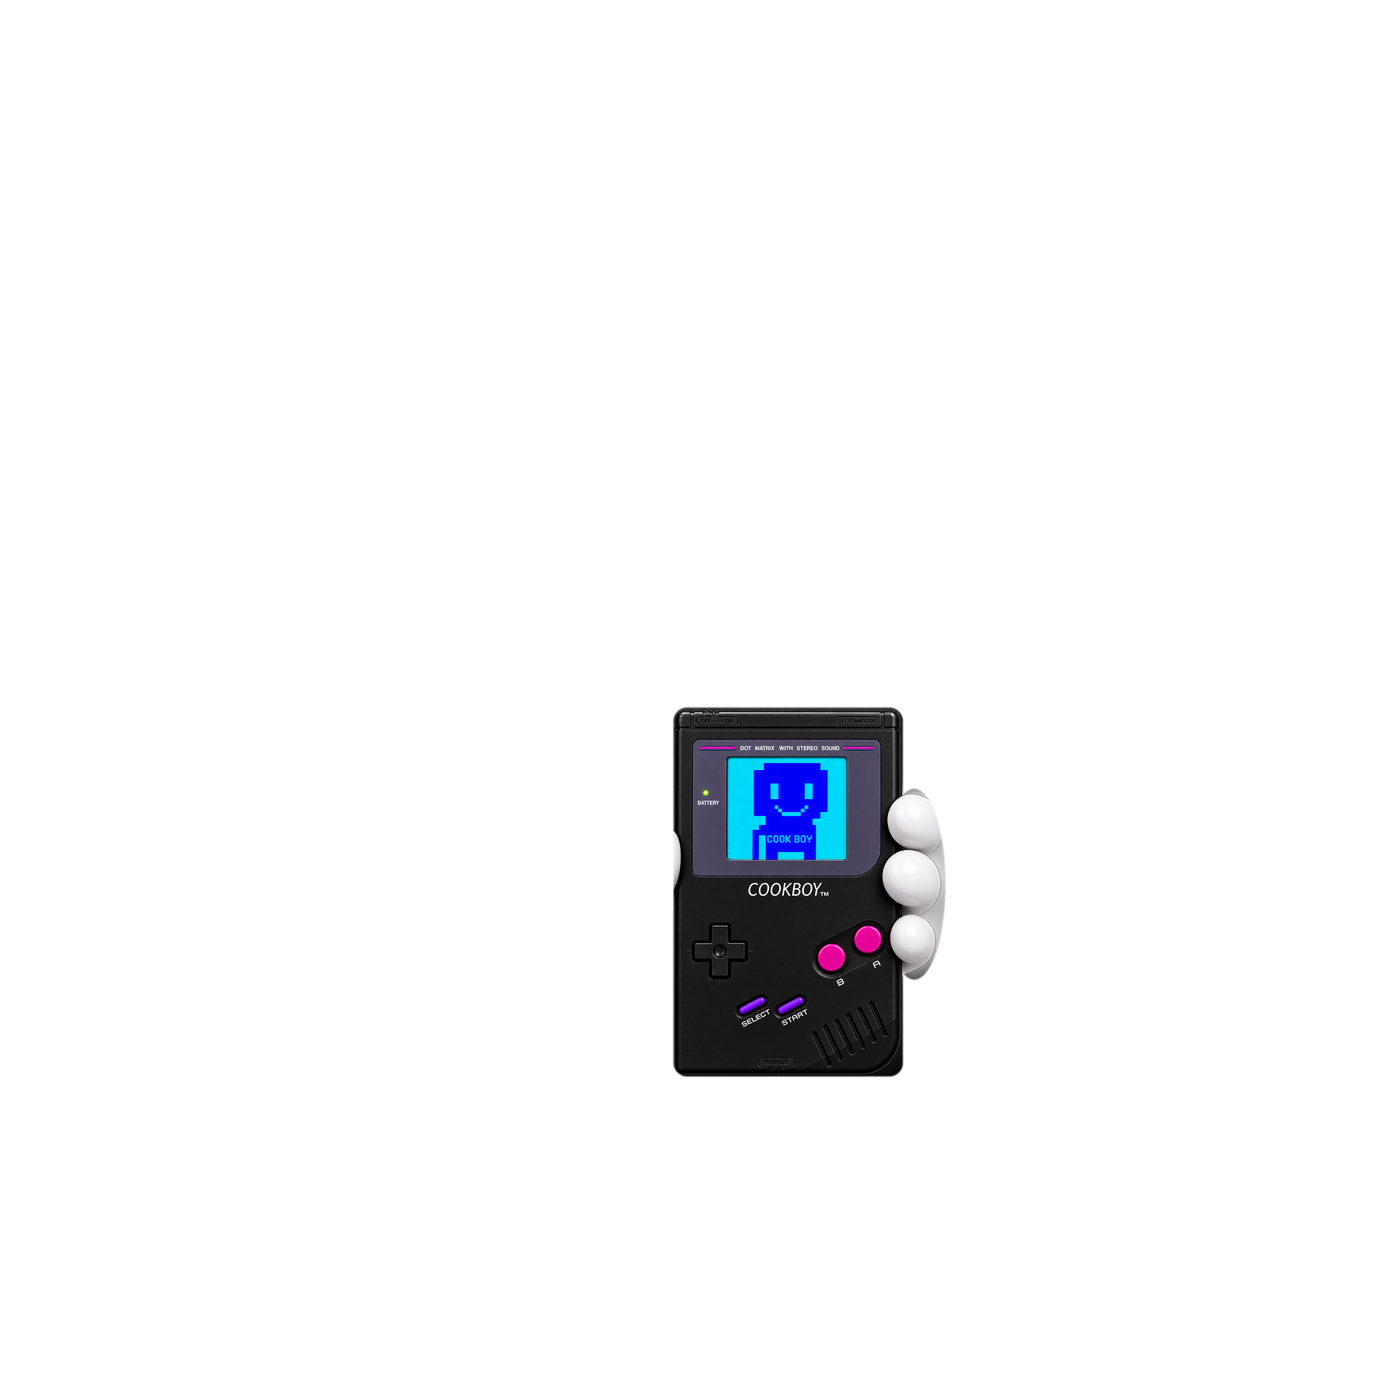
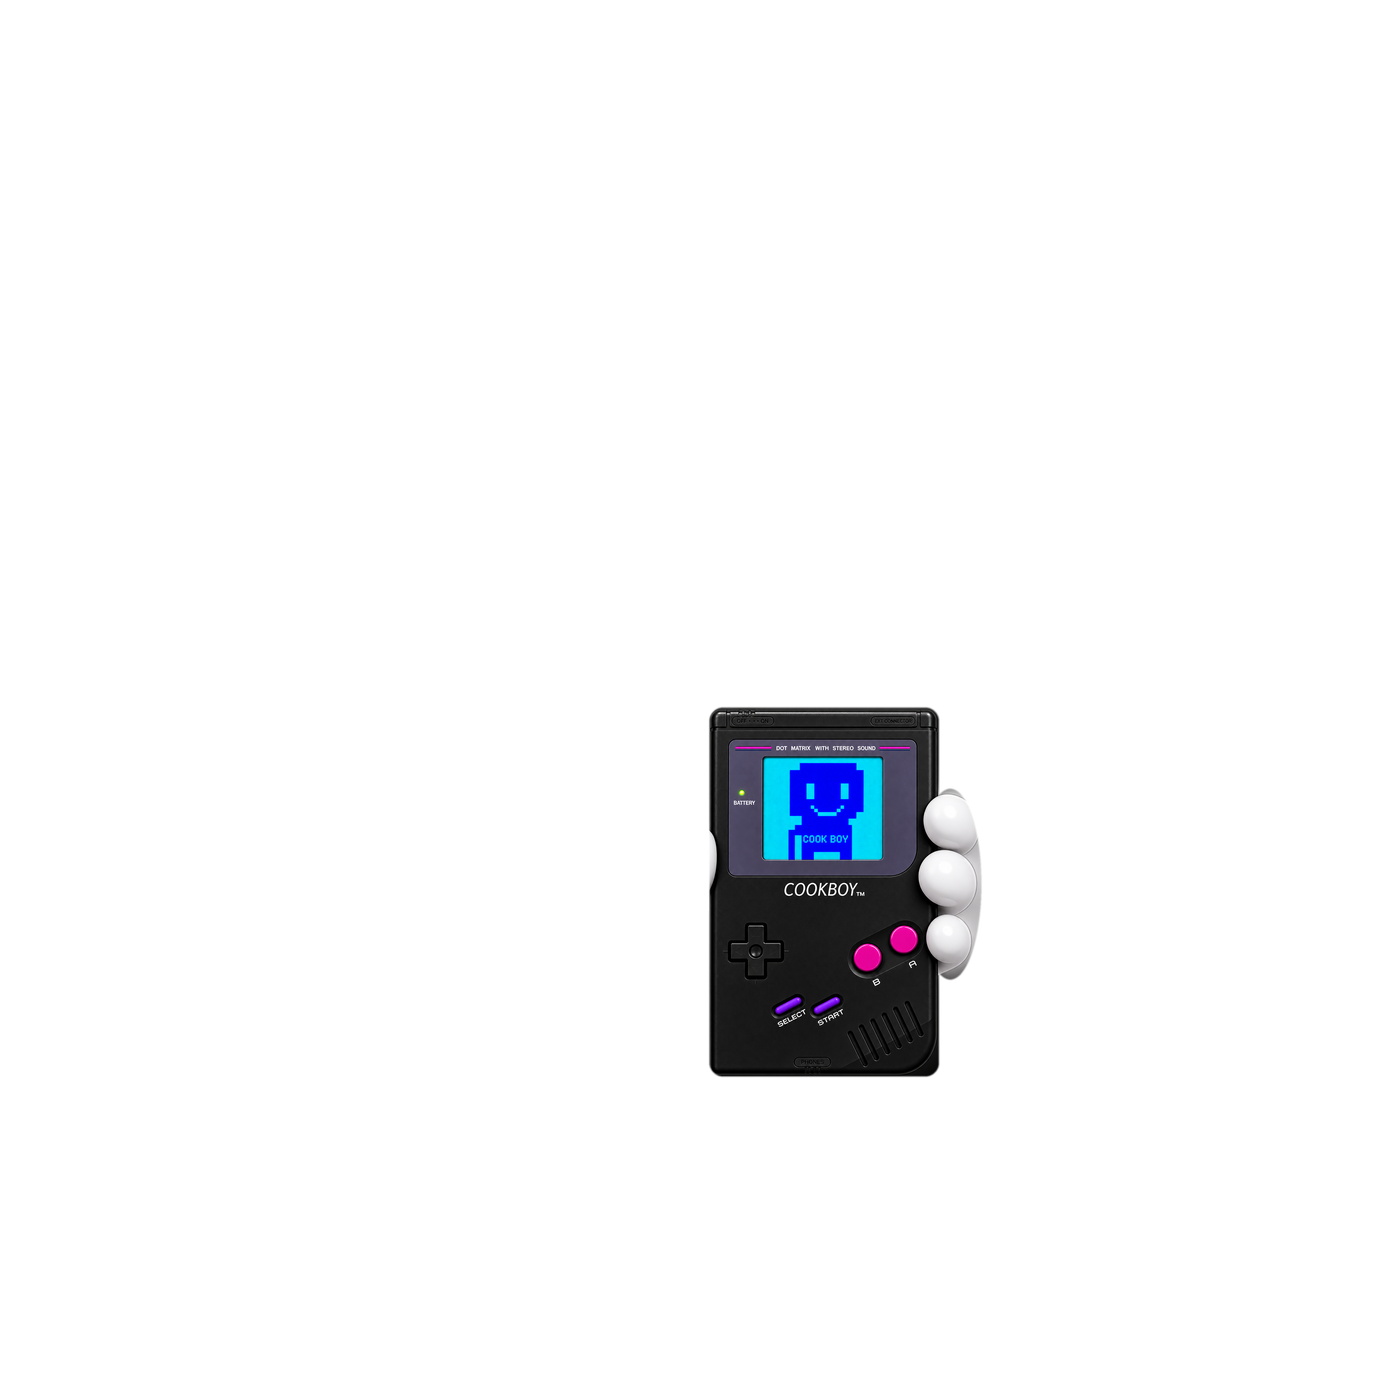
Move the Cookboy device clear of the centreline onto the character's right
At CENTER_X 810 the casing's left edge sat at 672, which is 18px across the
character's centreline (the face column at ~690). Straddling the middle reads
as a two-handed chest hold no matter where the centre is nudged to, so the
device did not actually sit on the character's right side.

The left edge is what governs this, not the centre. CENTER_X 845 puts it at
708, wholly outboard of the centreline, so the device occupies the right half
and the single hand on its far edge reads as the grip.

The right edge lands at 982, still inside the AK15's 993. Pushing further
starts to float the device off the narrow bodies instead of reading as held.

Re-verified across all 27: 0 occlude the eyes, on-body coverage 46.7-95.2%
(median 69.5%), and the ARMED_LIFT set is untouched since only x moved.

Claude-Session: https://claude.ai/code/session_017xj9sZBpVAv9un9HXHDuMA

Changed region(s): [[0.463, 0.4939, 0.71, 0.7717]]

diff --git a/asset_assessment/prepare_side_arm.py b/asset_assessment/prepare_side_arm.py
@@ -44,15 +44,24 @@ CANVAS = 1393
 # 372 tall lands the art at 707-1077, opaque coverage against the cohort's
 # 0.017-0.092 (median 0.056) -- i.e. the same visual mass as the AK15.
 #
-# CENTER_X is off the face column (~690) on purpose: the device is held in the
-# character's LEFT hand, so it reads on the VIEWER'S RIGHT rather than centred
-# on the chest. 810 keeps the casing's left edge inboard of the face column, so
-# it still overlaps the torso instead of floating off the silhouette, while the
-# right edge lands short of the AK15's 993. The narrowest body (Nutty_Bar) ends
-# at x=887, so a little overhang there is expected -- the AK15 overhangs that
-# same body by ~106px and that is the established look.
+# CENTER_X is off the face column on purpose: the device is held in the
+# character's LEFT hand, so it sits on the RIGHT SIDE of the character rather
+# than centred on the chest.
+#
+# What matters is the casing's LEFT edge, not its centre. The character's
+# centreline is the face column at ~690, so anything reaching left of that
+# straddles the middle and still reads as a two-handed chest hold however far
+# the centre is nudged -- at CENTER_X 810 the left edge was 672, still 18px
+# across the centreline. 845 puts the left edge at ~708, wholly outboard of the
+# centreline, so the device occupies the character's right half.
+#
+# The right edge then lands at ~982, just short of the AK15's 993. The
+# narrowest body (Nutty_Bar) ends at x=887, so some overhang there is expected
+# -- the AK15 overhangs that same body by ~106px and that is the established
+# look. Pushing much past this starts to float the device off the narrow
+# bodies rather than reading as held.
 TARGET_HEIGHT = 372
-CENTER_X = 810
+CENTER_X = 845
 BOTTOM_Y = 1078
 
 
